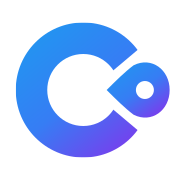
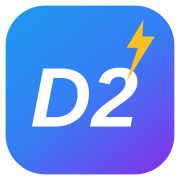
refactor(ccpanel): rebrand panel to Devin2API
Replace ccLoad/Claude Code & Codex Proxy branding: redraw favicon,
brand mark and wordmark assets (gradient D2 mark + Devin/2API wordmark),
regenerate raster icons, retitle all pages and the manifest, and point
the header GitHub link at github.com/WncFht/devin2api.

diff --git a/internal/ccpanel/web/assets/locales/en.js b/internal/ccpanel/web/assets/locales/en.js
@@ -61,7 +61,7 @@ window.I18N_LOCALES['en'] = {
   // ============================================================
   // Login Page
   // ============================================================
-  'login.title': 'Login - ccLoad',
+  'login.title': 'Login - Devin2API',
   'login.brandSubtitle': 'Intelligent API Proxy Management System',
   'login.adminLogin': 'Admin Login',
   'login.passwordHint': 'Enter your admin password to access the system',
@@ -87,7 +87,7 @@ window.I18N_LOCALES['en'] = {
   // ============================================================
   // Index Overview
   // ============================================================
-  'index.title': 'Claude Code & Codex Proxy Service',
+  'index.title': 'Devin2API Proxy Service',
   'index.timeRange.today': 'Today',
   'index.timeRange.yesterday': 'Yesterday',
   'index.timeRange.dayBeforeYesterday': 'Day Before',
@@ -120,7 +120,7 @@ window.I18N_LOCALES['en'] = {
   // ============================================================
   // API Tokens
   // ============================================================
-  'tokens.title': 'API Tokens - Claude Code & Codex Proxy',
+  'tokens.title': 'API Tokens - Devin2API',
   'tokens.pageTitle': 'API Access Tokens',
   'tokens.pageSubtitle': 'Manage tokens for API (/v1/*) access',
   'tokens.createToken': '+ Create Token',
@@ -254,7 +254,7 @@ window.I18N_LOCALES['en'] = {
   // ============================================================
   // Statistics
   // ============================================================
-  'stats.title': 'Statistics - Claude Code & Codex Proxy',
+  'stats.title': 'Statistics - Devin2API',
   'stats.timeRange': 'Time Range',
   'stats.token': 'Token',
   'stats.allTokens': 'All Tokens',
@@ -309,7 +309,7 @@ window.I18N_LOCALES['en'] = {
   // ============================================================
   // Trends
   // ============================================================
-  'trend.title': 'Trends - Claude Code & Codex Proxy',
+  'trend.title': 'Trends - Devin2API',
   'trend.chartTitle': 'Request Trend Chart',
   'trend.chartType': 'Chart type',
   'trend.lineChart': 'Line',
@@ -432,14 +432,14 @@ window.I18N_LOCALES['en'] = {
   // ============================================================
   // Settings
   // ============================================================
-  'settings.title': 'System Settings - Claude Code & Codex Proxy',
+  'settings.title': 'System Settings - Devin2API',
   'settings.configItem': 'Configuration',
   'settings.currentValue': 'Current Value',
   'settings.saveAll': 'Save All Changes',
   'settings.resetToDefault': 'Reset to default',
   'settings.runtimeMetrics.button': 'View Runtime Status',
   'settings.runtimeMetrics.title': 'Process Runtime Status',
-  'settings.runtimeMetrics.description': 'Resource usage and status for the current ccLoad process and its runtime subsystems',
+  'settings.runtimeMetrics.description': 'Resource usage and status for the current Devin2API process and its runtime subsystems',
   'settings.runtimeMetrics.refresh': 'Refresh',
   'settings.runtimeMetrics.loading': 'Loading runtime metrics...',
   'settings.runtimeMetrics.loadFailed': 'Failed to load runtime metrics',
@@ -637,7 +637,7 @@ window.I18N_LOCALES['en'] = {
   // ============================================================
   // Model Registry
   // ============================================================
-  'models.title': 'Model Registry - Claude Code & Codex Proxy',
+  'models.title': 'Model Registry - Devin2API',
   'models.filterPlaceholder': 'Filter model names',
   'models.add.namePlaceholder': 'Public model name',
   'models.add.targetPlaceholder': 'Redirect target (optional)',

diff --git a/internal/ccpanel/web/assets/locales/zh-CN.js b/internal/ccpanel/web/assets/locales/zh-CN.js
@@ -61,7 +61,7 @@ window.I18N_LOCALES['zh-CN'] = {
   // ============================================================
   // 登录页
   // ============================================================
-  'login.title': '登录 - ccLoad',
+  'login.title': '登录 - Devin2API',
   'login.brandSubtitle': '智能API代理管理系统',
   'login.adminLogin': '管理员登录',
   'login.passwordHint': '请输入您的管理密码以访问系统',
@@ -87,7 +87,7 @@ window.I18N_LOCALES['zh-CN'] = {
   // ============================================================
   // 首页概览
   // ============================================================
-  'index.title': 'Claude Code & Codex Proxy 代理服务',
+  'index.title': 'Devin2API 代理服务',
   'index.timeRange.today': '本日',
   'index.timeRange.yesterday': '昨日',
   'index.timeRange.dayBeforeYesterday': '前日',
@@ -120,7 +120,7 @@ window.I18N_LOCALES['zh-CN'] = {
   // ============================================================
   // API令牌
   // ============================================================
-  'tokens.title': 'API令牌 - Claude Code & Codex Proxy',
+  'tokens.title': 'API令牌 - Devin2API',
   'tokens.pageTitle': 'API访问令牌',
   'tokens.pageSubtitle': '管理用于 API (/v1/*) 访问的令牌',
   'tokens.createToken': '+ 创建令牌',
@@ -254,7 +254,7 @@ window.I18N_LOCALES['zh-CN'] = {
   // ============================================================
   // 调用统计
   // ============================================================
-  'stats.title': '调用统计 - Claude Code & Codex Proxy',
+  'stats.title': '调用统计 - Devin2API',
   'stats.timeRange': '范围',
   'stats.token': '令牌',
   'stats.allTokens': '全部令牌',
@@ -309,7 +309,7 @@ window.I18N_LOCALES['zh-CN'] = {
   // ============================================================
   // 请求趋势
   // ============================================================
-  'trend.title': '请求趋势 - Claude Code & Codex Proxy',
+  'trend.title': '请求趋势 - Devin2API',
   'trend.chartTitle': '请求趋势图表',
   'trend.chartType': '图表类型',
   'trend.lineChart': '折线图',
@@ -432,14 +432,14 @@ window.I18N_LOCALES['zh-CN'] = {
   // ============================================================
   // 设置
   // ============================================================
-  'settings.title': '系统设置 - Claude Code & Codex Proxy',
+  'settings.title': '系统设置 - Devin2API',
   'settings.configItem': '配置项',
   'settings.currentValue': '当前值',
   'settings.saveAll': '保存所有更改',
   'settings.resetToDefault': '重置为默认值',
   'settings.runtimeMetrics.button': '查看运行状态',
   'settings.runtimeMetrics.title': '进程运行状态',
-  'settings.runtimeMetrics.description': '当前 ccLoad 进程与各运行子系统的资源占用和状态',
+  'settings.runtimeMetrics.description': '当前 Devin2API 进程与各运行子系统的资源占用和状态',
   'settings.runtimeMetrics.refresh': '刷新',
   'settings.runtimeMetrics.loading': '正在读取运行指标...',
   'settings.runtimeMetrics.loadFailed': '运行指标加载失败',
@@ -637,7 +637,7 @@ window.I18N_LOCALES['zh-CN'] = {
   // ============================================================
   // 模型注册表
   // ============================================================
-  'models.title': '模型注册表 - Claude Code & Codex Proxy',
+  'models.title': '模型注册表 - Devin2API',
   'models.filterPlaceholder': '筛选模型名',
   'models.add.namePlaceholder': '对外模型名',
   'models.add.targetPlaceholder': '重定向目标（可选）',

diff --git a/internal/ccpanel/web/assets/js/ui.js b/internal/ccpanel/web/assets/js/ui.js
@@ -337,8 +337,8 @@ window.WebAuth = window.WebAuth || {
   }
 
   // GitHub仓库地址
-  const GITHUB_REPO_URL = 'https://github.com/caidaoli/ccLoad';
-  const GITHUB_RELEASES_URL = 'https://github.com/caidaoli/ccLoad/releases';
+  const GITHUB_REPO_URL = 'https://github.com/WncFht/devin2api';
+  const GITHUB_RELEASES_URL = 'https://github.com/WncFht/devin2api/releases';
 
   // 版本信息
   let versionInfo = null;
@@ -682,11 +682,11 @@ window.WebAuth = window.WebAuth || {
   function createBrandWordmark() {
     const el = document.createElementNS('http://www.w3.org/2000/svg', 'svg');
     const use = document.createElementNS('http://www.w3.org/2000/svg', 'use');
-    el.setAttribute('viewBox', '0 0 132 36');
+    el.setAttribute('viewBox', '0 0 176 36');
     el.setAttribute('aria-hidden', 'true');
     el.classList.add('brand-wordmark');
     use.setAttribute('href', '/web/brand-wordmark.svg#brand-wordmark');
-    use.setAttribute('width', '132');
+    use.setAttribute('width', '176');
     use.setAttribute('height', '36');
     el.appendChild(use);
     return el;
@@ -714,7 +714,7 @@ window.WebAuth = window.WebAuth || {
         target: '_blank',
         rel: 'noopener noreferrer',
         title: t('nav.githubRepo'),
-        'aria-label': 'ccLoad — API Load Balancer & Proxy'
+        'aria-label': 'Devin2API — Devin API Proxy'
       }, [
         _activeWrap,
         wordmark

diff --git a/internal/ccpanel/web/settings.html b/internal/ccpanel/web/settings.html
@@ -8,7 +8,7 @@
   <link rel="apple-touch-icon" href="/web/apple-touch-icon.png">
   <link rel="manifest" href="/web/manifest.json">
   <meta name="theme-color" content="#3b82f6">
-  <title data-i18n="settings.title">系统设置 - Claude Code & Codex Proxy</title>
+  <title data-i18n="settings.title">系统设置 - Devin2API</title>
   <script src="/web/assets/js/theme-init.js?v=__VERSION__"></script>
   <link rel="stylesheet" href="/web/assets/css/styles.css?v=__VERSION__">
   <script defer src="/web/assets/locales/zh-CN.js?v=__VERSION__"></script>
@@ -77,7 +77,7 @@
       <div class="modal-header runtime-metrics-modal-header">
         <div>
           <h2 id="runtimeMetricsTitle" class="modal-title" data-i18n="settings.runtimeMetrics.title">运行状态</h2>
-          <p class="modal-description" data-i18n="settings.runtimeMetrics.description">当前 ccLoad 进程与各运行子系统的资源占用和状态</p>
+          <p class="modal-description" data-i18n="settings.runtimeMetrics.description">当前 Devin2API 进程与各运行子系统的资源占用和状态</p>
         </div>
         <button type="button" class="close-btn" data-action="close-runtime-metrics" data-i18n-aria-label="common.close" aria-label="关闭">&times;</button>
       </div>

diff --git a/internal/ccpanel/web/login.html b/internal/ccpanel/web/login.html
@@ -8,7 +8,7 @@
   <link rel="apple-touch-icon" href="/web/apple-touch-icon.png">
   <link rel="manifest" href="/web/manifest.json">
   <meta name="theme-color" content="#3b82f6">
-  <title data-i18n="login.title">登录 - ccLoad</title>
+  <title data-i18n="login.title">登录 - Devin2API</title>
   <script src="/web/assets/js/theme-init.js?v=__VERSION__"></script>
   <link rel="stylesheet" href="/web/assets/css/styles.css?v=__VERSION__">
   <script defer src="/web/assets/locales/zh-CN.js?v=__VERSION__"></script>
@@ -39,8 +39,8 @@
           <div class="brand-logo">
             <img class="logo-icon animate-float" src="/web/favicon.svg" alt="">
           </div>
-          <svg class="login-brand-wordmark" viewBox="0 0 132 36" role="img" aria-label="ccLoad">
-            <use href="/web/brand-wordmark.svg#brand-wordmark" width="132" height="36"></use>
+          <svg class="login-brand-wordmark" viewBox="0 0 176 36" role="img" aria-label="Devin2API">
+            <use href="/web/brand-wordmark.svg#brand-wordmark" width="176" height="36"></use>
           </svg>
         </div>
         <p class="brand-subtitle" data-i18n="login.brandSubtitle">智能API代理管理系统</p>

diff --git a/internal/ccpanel/web/assets/css/styles.css b/internal/ccpanel/web/assets/css/styles.css
@@ -1,4 +1,4 @@
-/* 现代化UI界面样式系统 - ccLoad代理管理界面 */
+/* 现代化UI界面样式系统 - Devin2API 代理管理界面 */
 
 /* ===== CSS 变量和设计令牌 ===== */
 :root {
@@ -506,7 +506,7 @@ body {
 
 .brand-wordmark {
   display: block;
-  width: 132px;
+  width: 176px;
   height: 36px;
   color: color-mix(in srgb, var(--topbar-fg) 88%, #071b35);
 }
@@ -1904,7 +1904,7 @@ body {
   }
 
   .brand-wordmark {
-    width: 103px;
+    width: 137px;
     height: 28px;
   }
 
@@ -4954,7 +4954,7 @@ body.trend-page .chart-info {
 
 .login-brand-wordmark {
   display: block;
-  width: 176px;
+  width: 220px;
   height: auto;
   color: var(--neutral-900);
 }
@@ -5340,7 +5340,7 @@ body.web-role-api-token .filter-group--auth-token {
   }
 
   .login-brand-wordmark {
-    width: 156px;
+    width: 190px;
   }
 
   .modal-content {

diff --git a/internal/ccpanel/web/models.html b/internal/ccpanel/web/models.html
@@ -8,7 +8,7 @@
   <link rel="apple-touch-icon" href="/web/apple-touch-icon.png">
   <link rel="manifest" href="/web/manifest.json">
   <meta name="theme-color" content="#3b82f6">
-  <title data-i18n="models.title">模型注册表 - Claude Code & Codex Proxy</title>
+  <title data-i18n="models.title">模型注册表 - Devin2API</title>
   <script src="/web/assets/js/theme-init.js?v=__VERSION__"></script>
   <link rel="stylesheet" href="/web/assets/css/styles.css?v=__VERSION__">
   <script defer src="/web/assets/locales/zh-CN.js?v=__VERSION__"></script>

diff --git a/internal/ccpanel/web/tokens.html b/internal/ccpanel/web/tokens.html
@@ -8,7 +8,7 @@
   <link rel="apple-touch-icon" href="/web/apple-touch-icon.png">
   <link rel="manifest" href="/web/manifest.json">
   <meta name="theme-color" content="#3b82f6">
-  <title data-i18n="tokens.title">API访问令牌 - Claude Code & Codex Proxy</title>
+  <title data-i18n="tokens.title">API访问令牌 - Devin2API</title>
   <script src="/web/assets/js/theme-init.js?v=__VERSION__"></script>
   <link rel="stylesheet" href="/web/assets/css/styles.css?v=__VERSION__">
   <link rel="stylesheet" href="/web/assets/css/tokens.css?v=__VERSION__">

diff --git a/internal/ccpanel/web/logs.html b/internal/ccpanel/web/logs.html
@@ -8,7 +8,7 @@
   <link rel="apple-touch-icon" href="/web/apple-touch-icon.png">
   <link rel="manifest" href="/web/manifest.json">
   <meta name="theme-color" content="#3b82f6">
-  <title data-i18n="logs.title">请求日志 - Claude Code & Codex Proxy</title>
+  <title data-i18n="logs.title">请求日志 - Devin2API</title>
   <script src="/web/assets/js/theme-init.js?v=__VERSION__"></script>
   <link rel="stylesheet" href="/web/assets/css/styles.css?v=__VERSION__">
   <link rel="stylesheet" href="/web/assets/css/highlight-theme.css?v=__VERSION__">

diff --git a/internal/ccpanel/web/stats.html b/internal/ccpanel/web/stats.html
@@ -8,7 +8,7 @@
   <link rel="apple-touch-icon" href="/web/apple-touch-icon.png">
   <link rel="manifest" href="/web/manifest.json">
   <meta name="theme-color" content="#3b82f6">
-  <title data-i18n="stats.title">调用统计 - Claude Code & Codex Proxy</title>
+  <title data-i18n="stats.title">调用统计 - Devin2API</title>
   <script src="/web/assets/js/theme-init.js?v=__VERSION__"></script>
   <link rel="stylesheet" href="/web/assets/css/styles.css?v=__VERSION__">
   <script defer src="/web/assets/locales/zh-CN.js?v=__VERSION__"></script>

diff --git a/internal/ccpanel/web/trend.html b/internal/ccpanel/web/trend.html
@@ -8,7 +8,7 @@
   <link rel="apple-touch-icon" href="/web/apple-touch-icon.png">
   <link rel="manifest" href="/web/manifest.json">
   <meta name="theme-color" content="#3b82f6">
-  <title data-i18n="trend.title">请求趋势 - Claude Code & Codex Proxy</title>
+  <title data-i18n="trend.title">请求趋势 - Devin2API</title>
   <script src="/web/assets/js/theme-init.js?v=__VERSION__"></script>
   <link rel="stylesheet" href="/web/assets/css/styles.css?v=__VERSION__">
   <script defer src="/web/assets/locales/zh-CN.js?v=__VERSION__"></script>

diff --git a/internal/ccpanel/web/index.html b/internal/ccpanel/web/index.html
@@ -8,7 +8,7 @@
   <link rel="apple-touch-icon" href="/web/apple-touch-icon.png">
   <link rel="manifest" href="/web/manifest.json">
   <meta name="theme-color" content="#3b82f6">
-  <title data-i18n="index.title">Claude Code & Codex Proxy 代理服务</title>
+  <title data-i18n="index.title">Devin2API 代理服务</title>
   <script src="/web/assets/js/theme-init.js?v=__VERSION__"></script>
   <link rel="stylesheet" href="/web/assets/css/styles.css?v=__VERSION__">
   <script defer src="/web/assets/locales/zh-CN.js?v=__VERSION__"></script>
